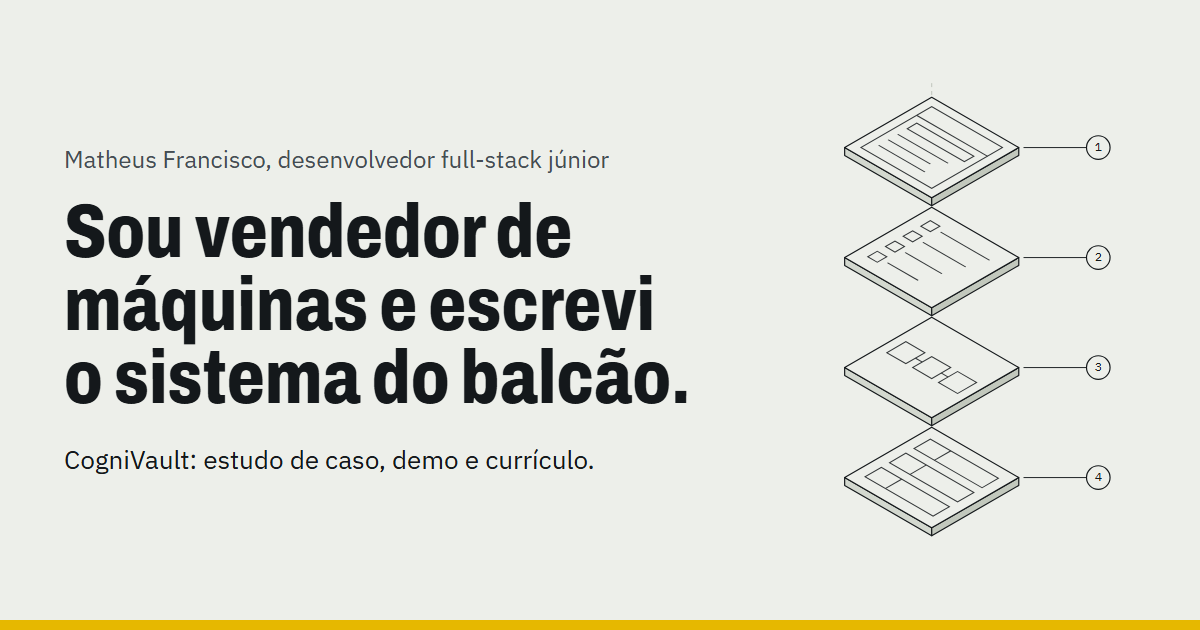
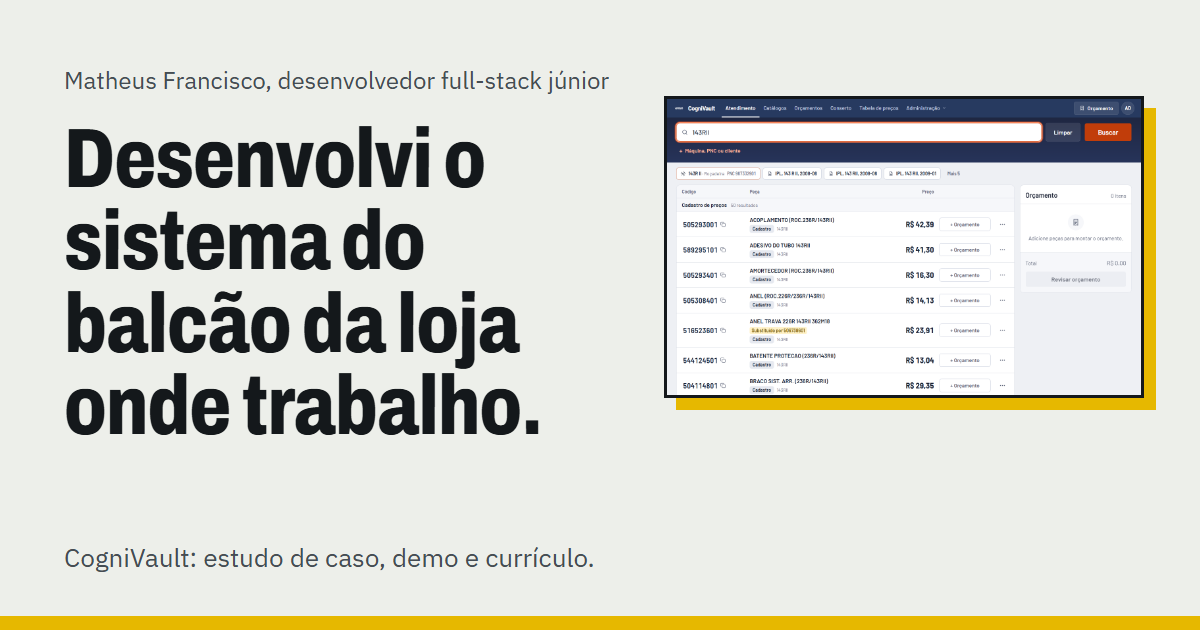
Imagem da previa do link com o titulo novo, com o codigo-fonte da imagem

diff --git a/meu-portfolio/og/og.html b/meu-portfolio/og/og.html
@@ -1,0 +1,21 @@
+<!doctype html>
+<html lang="pt-BR"><head><meta charset="utf-8">
+<style>
+@font-face{font-family:'Archivo';src:url('../node_modules/@fontsource-variable/archivo/files/archivo-latin-wdth-normal.woff2') format('woff2');font-weight:100 900;font-stretch:62% 125%}
+@font-face{font-family:'Plex';src:url('../node_modules/@fontsource-variable/ibm-plex-sans/files/ibm-plex-sans-latin-wght-normal.woff2') format('woff2');font-weight:100 700}
+*{box-sizing:border-box;margin:0}
+body{width:1200px;height:630px;background:#edefea;color:#14181b;font-family:'Plex',sans-serif;position:relative;overflow:hidden}
+.bar{position:absolute;left:0;right:0;bottom:0;height:14px;background:#e6b800}
+.t{position:absolute;left:64px;top:64px;width:580px}
+.who{font-size:24px;white-space:nowrap;color:#454d53;margin-bottom:22px}
+h1{font-family:'Archivo',sans-serif;font-stretch:78%;font-weight:800;font-size:84px;line-height:.98;letter-spacing:-1px}
+.sub{position:absolute;left:64px;bottom:56px;font-size:26px;color:#454d53}
+.shot{position:absolute;right:56px;top:96px;width:480px;border:3px solid #14181b;background:#fff;box-shadow:12px 12px 0 #e6b800}
+.shot img{display:block;width:100%}
+</style></head><body>
+<div class="t"><p class="who">Matheus Francisco, desenvolvedor full-stack júnior</p>
+<h1>Desenvolvi o sistema do balcão da loja onde trabalho.</h1></div>
+<div class="shot"><img src="../public/assets/cognivault-busca.png"></div>
+<p class="sub">CogniVault: estudo de caso, demo e currículo.</p>
+<div class="bar"></div>
+</body></html>
